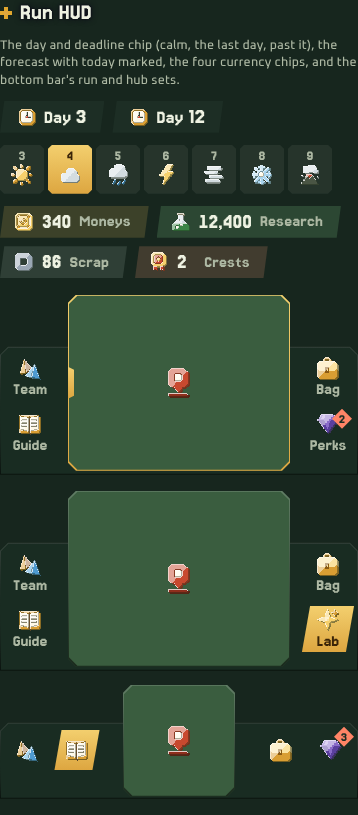
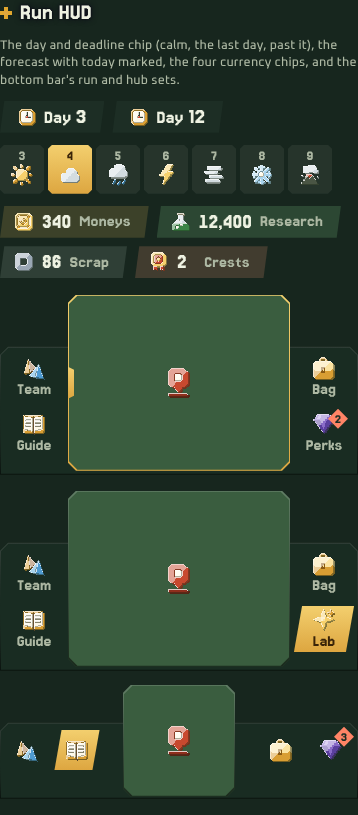
UI-8b: the bar's side columns 60 px or more (--apart is a side's margin and gap, 8 px)
They came out 55 px on a 390 px phone; now 63 px there and 60 px where a narrow bar shrinks the tile. The gallery's
run-hud pictures remade on purpose.

Claude-Session: https://claude.ai/code/session_019UpAG13PGNLrsry4mxzmgA

diff --git a/game/js/ui-run-kit.js b/game/js/ui-run-kit.js
@@ -939,7 +939,7 @@ const PbNavBar = class extends LitElement {
         background: var(--edge);
       }
       .side {
-        --apart: var(--s4);
+        --apart: var(--s2); /* its margin and the gap to the tile: 60 px columns at the narrowest */
         position: absolute;
         top: calc(var(--rise) + var(--s1));
         width: calc((100% - var(--tile-w)) / 2 - var(--apart));
